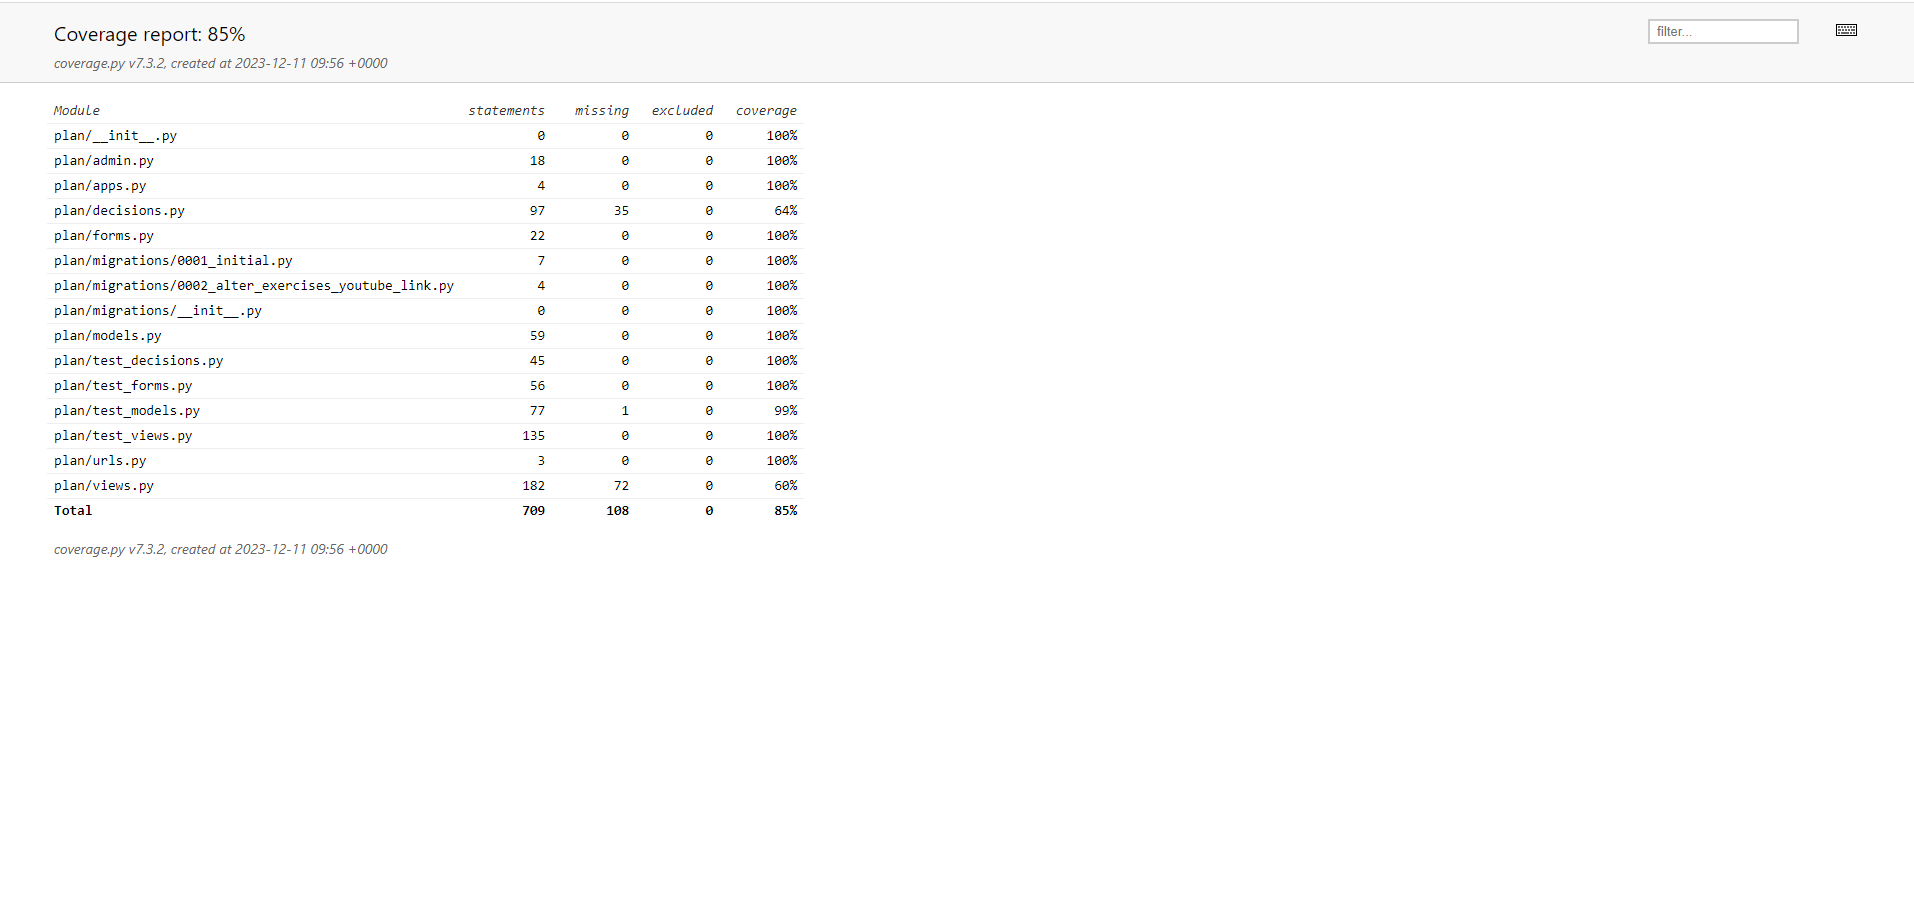
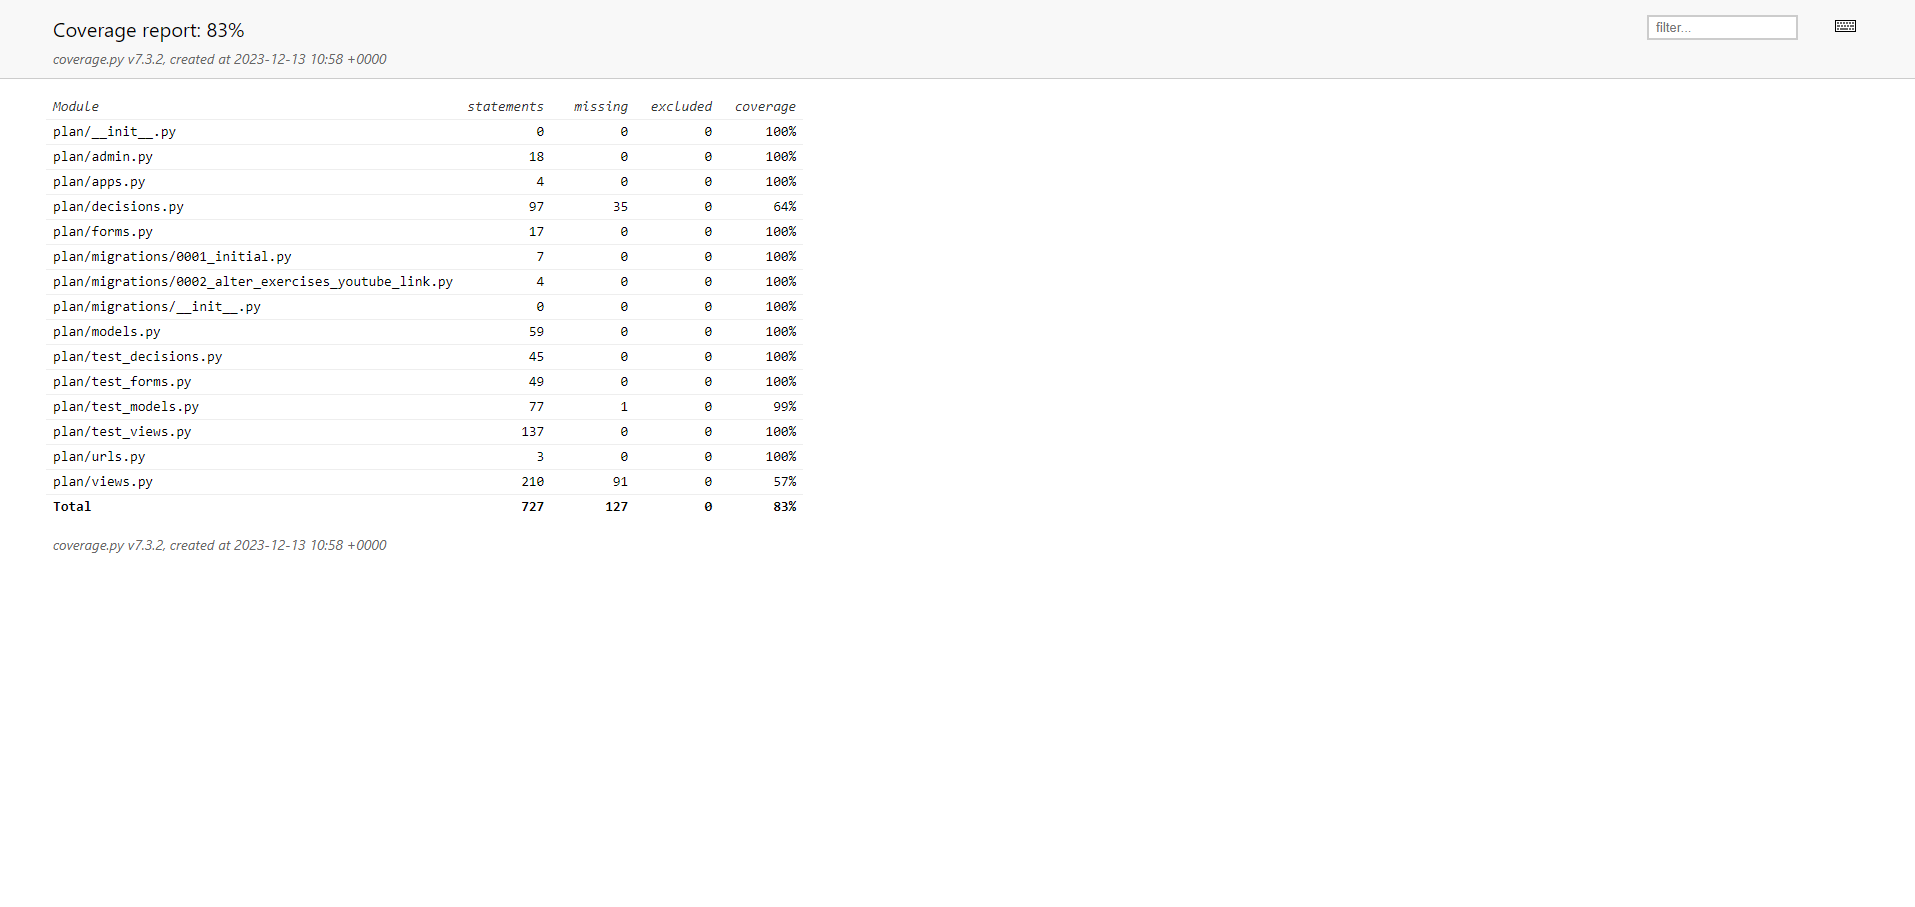
add rest of user stories testing images and new automated testing image

diff --git a/README.md b/README.md
@@ -59,7 +59,7 @@ Gympals database  total of four original models interconnected via one-to-one or
 #### Libraries
 
 1. [Google Fonts:](https://fonts.google.com/) Roboto and Exo fonts were imported to CSS stylesheet from Google fonts.
-2. [Python libraries: random, datetime]
+2. Python libraries: random, datetime
 
 #### Programs
 
@@ -76,7 +76,7 @@ All python code in plan app was validated using the PEP8 validator provided by t
 
 ### Automated testing (Unittest)
 
-A 85% coevarege of plan app code was achieved using automated testing. Code in views.py and decisions.py using distinct method
+A 83% coevarege of plan app code was achieved using automated testing. Code in views.py and decisions.py using distinct method
 couldn't be tested since this order is not supported in the local database. These features are covered in user stories testing.
 
 ![automated_testing](static/images/automated_testing.png)
@@ -200,6 +200,23 @@ A button is provided to display a form to add exercises as shown below.
 
 ![admin_add_exercise](static/images/admin_catalog_add_exercise.png)
 
+- As a Admin I can edit specific exercises so that I can keep the exercise catalogue up to date.
+
+The exercise catalog button displays the available exercises in accordion elements divided by muscular group. 
+
+![admin_catalog_show](static/images/admin_catalog_catalog_accordion.png)
+
+To edit/delete an exercise, the admin must click on the exercise name  and immidiately wil be prompted to a new page
+with exercise details, with a prepopulated form with exercise details. The form can be use to edit details.
+
+![admin_edit_exercise](static/images/admin_edit_exercise.png)
+
+- As a Admin I can delete specific exercise so that I can rid off exercises that are no in use anymore.
+
+The same page, displays a form to delete the exercise. For this, the admin must write the exercise name in the iput field.
+
+![admin_delete_exercise](static/images/admin_delete_exercise.png)
+
 - As a User/Admin I can see messages indicating success login, form completion so that I am sure my actions have been successful.
 
 As mentioned above, a new user is first asked to provide personal information to receive appropriate advice, on submitting the form the user receives a message
@@ -211,18 +228,34 @@ When succesfully logged in a message is conveyed to the user:
 
 ![user_login_message](static/images/succesfull_login_message.png)
 
+On logging out the user also receives a message:
+
+![log_out_message](static/images/logout_message.png)
+
 When users succesfully submit the workout form an exercise they receive a message indicating succes as shown below:
 
 ![user_exercise_log_message](static/images/exercise_logged_message.png)
 
 Admin is able to add new exercise to the catalog, on correctly filling and submiting the form, the admin receives a success message:
 
-![admin_add_exercise_success](static/imgaes/admin_add_new_exercise.png)
+![admin_add_exercise_success](static/images/admin_add_new_exercise.png)
 
 On the other hand, the exercise name must be unique, if the admin attempts to sumbit a new exercise with name already existing in the catalog, the
 submission is rejected and an error message is produced:
 
 ![admin_add_exercise_error](static/images/admin_catalog_add_exercise_error.png)
+
+Admin can edit exercise details, on succesfully changing an exercise details, a success message is displayed:
+
+![admin_edit_exercise_success](static/images/admin_edit_exercise_success.png)
+
+Admin can erase an exercise, but to do so must provide an input. If the wrong input is provided an error message is displayed:
+
+![admin_delete_exercise_error](static/images/admin_delete_exercise_error.png)
+
+On the other hand, if the exercise is succesfully deleted, a success message is displayed:
+
+![admin_delete_exercise_success](static/images/admin_delete_exercise_success.png)
 
 ### Bugs
 
